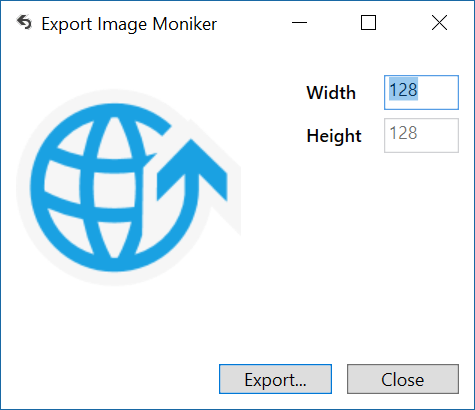
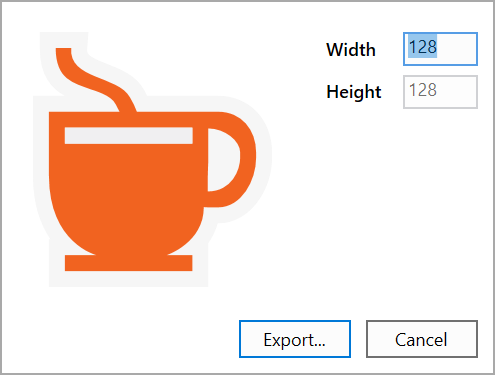
Fixed themeing in export dialog

diff --git a/src/ToolWindows/ExportMonikerWindow.xaml b/src/ToolWindows/ExportMonikerWindow.xaml
@@ -4,10 +4,30 @@
              xmlns:mc="http://schemas.openxmlformats.org/markup-compatibility/2006" 
              xmlns:d="http://schemas.microsoft.com/expression/blend/2008" 
              xmlns:local="clr-namespace:KnownMonikersExplorer.ToolWindows"
+             xmlns:imaging="clr-namespace:Microsoft.VisualStudio.Imaging;assembly=Microsoft.VisualStudio.Imaging"
+             xmlns:theming="clr-namespace:Microsoft.VisualStudio.PlatformUI;assembly=Microsoft.VisualStudio.Imaging"
+             xmlns:platformUI="clr-namespace:Microsoft.VisualStudio.PlatformUI;assembly=Microsoft.VisualStudio.Shell.15.0"
+             xmlns:util="clr-namespace:Microsoft.VisualStudio.PlatformUI;assembly=Microsoft.VisualStudio.Utilities"
+             xmlns:catalog="clr-namespace:Microsoft.VisualStudio.Imaging;assembly=Microsoft.VisualStudio.ImageCatalog"
              mc:Ignorable="d" 
              d:DesignHeight="450" d:DesignWidth="800"
-             Title="Export Image Moniker" Height="280" Width="330" WindowStartupLocation="CenterOwner" ShowInTaskbar="False">
-    <Grid Margin="10">
+             Background="{DynamicResource {x:Static platformUI:EnvironmentColors.BrandedUIBackgroundBrushKey}}"
+             Title="Export Image Moniker" Height="250" Width="330" WindowStartupLocation="CenterOwner" ShowInTaskbar="False" UseLayoutRounding="True" WindowStyle="None" ResizeMode="NoResize" BorderBrush="DarkGray" BorderThickness="1">
+    <Window.Resources>
+        <util:BrushToColorConverter x:Key="BrushToColorConverter"/>
+        <Style TargetType="{x:Type Button}">
+            <Setter Property="Background" Value="{DynamicResource {x:Static platformUI:EnvironmentColors.ComboBoxFocusedBackgroundBrushKey}}"/>
+            <Setter Property="Foreground" Value="{DynamicResource {x:Static platformUI:EnvironmentColors.BrandedUITitleBrushKey}}"/>
+            <Style.Triggers>
+                <Trigger Property="IsMouseOver" Value="True">
+                    <Setter Property="Foreground" Value="Black"/>
+                    <Setter Property="BorderBrush" Value="{DynamicResource {x:Static platformUI:EnvironmentColors.ComboBoxFocusedBorderBrushKey}}"/>
+                </Trigger>
+            </Style.Triggers>
+        </Style>
+    </Window.Resources>
+    <Grid Margin="10" 
+          theming:ImageThemingUtilities.ImageBackgroundColor="{Binding Background, RelativeSource={RelativeSource Self}, Converter={StaticResource BrushToColorConverter}}">
         <Grid.RowDefinitions>
             <RowDefinition Height="auto" />
             <RowDefinition />
@@ -18,7 +38,7 @@
             <ColumnDefinition Width="auto" />
         </Grid.ColumnDefinitions>
 
-        <Image x:Name="imgMoniker" Grid.Row="1" Grid.Column="0" Margin="0 10 0 0" VerticalAlignment="Top" HorizontalAlignment="Left" Width="150" Height="150" Stretch="None" />
+        <imaging:CrispImage x:Name="imgMoniker" Grid.Row="1" Grid.Column="0" Margin="0 10 0 0" VerticalAlignment="Top" HorizontalAlignment="Left" Width="170" Height="170" Moniker="{x:Static catalog:KnownMonikers.MoveUp}" />
 
         <Grid Grid.Row="1" Grid.Column="1" HorizontalAlignment="Right">
             <Grid.RowDefinitions>
@@ -29,11 +49,17 @@
                 <ColumnDefinition />
                 <ColumnDefinition Width="auto" />
             </Grid.ColumnDefinitions>
-            <TextBlock x:Name="textBlock" Grid.Row="0" Grid.Column="0" HorizontalAlignment="Left" FontWeight="SemiBold" Margin="0,13,15,10" Text="Width" VerticalAlignment="Top"/>
-            <TextBox x:Name="txtSize" Grid.Row="0" Grid.Column="1" HorizontalAlignment="Right" Height="23" Margin="0 10 0 0" Text="128" VerticalAlignment="Top" Width="50"/>
+            <TextBlock x:Name="textBlock" Grid.Row="0" Grid.Column="0" HorizontalAlignment="Left" FontWeight="SemiBold" Margin="0,13,15,10" Text="Width" VerticalAlignment="Top" 
+                       Foreground="{DynamicResource {x:Static platformUI:EnvironmentColors.BrandedUITitleBrushKey}}"/>
+            <TextBox x:Name="txtSize" Grid.Row="0" Grid.Column="1" HorizontalAlignment="Right" Height="23" Margin="0 10 0 0" Text="128" VerticalAlignment="Top" Width="50"
+                     Background="{DynamicResource {x:Static platformUI:EnvironmentColors.ComboBoxFocusedBackgroundBrushKey}}"
+                     Foreground="{DynamicResource {x:Static platformUI:EnvironmentColors.BrandedUITitleBrushKey}}"/>
 
-            <TextBlock Grid.Row="1" Grid.Column="0" HorizontalAlignment="Left" FontWeight="SemiBold" Margin="0,3,15,10" Text="Height" VerticalAlignment="Top"/>
-            <TextBox Grid.Row="1" Grid.Column="1" HorizontalAlignment="Right" Height="23" Text="{Binding ElementName=txtSize, Path=Text}" VerticalAlignment="Top" Width="50" IsEnabled="False"/>
+            <TextBlock Grid.Row="1" Grid.Column="0" HorizontalAlignment="Left" FontWeight="SemiBold" Margin="0,3,15,10" Text="Height" VerticalAlignment="Top" 
+                       Foreground="{DynamicResource {x:Static platformUI:EnvironmentColors.BrandedUITitleBrushKey}}"/>
+            <TextBox Grid.Row="1" Grid.Column="1" HorizontalAlignment="Right" Height="23" Text="{Binding ElementName=txtSize, Path=Text}" VerticalAlignment="Top" Width="50" IsEnabled="False"
+                     Background="{DynamicResource {x:Static platformUI:EnvironmentColors.ComboBoxFocusedBackgroundBrushKey}}"
+                     Foreground="{DynamicResource {x:Static platformUI:EnvironmentColors.BrandedUITitleBrushKey}}"/>
         </Grid>
 
         <Grid Grid.Row="2" Grid.ColumnSpan="2" HorizontalAlignment="Right" Margin="0 10 0 0">
@@ -44,8 +70,9 @@
                 <ColumnDefinition Width="auto" />
             </Grid.ColumnDefinitions>
 
-            <Button x:Name="btnOk" Grid.Column="1" Content="Export..." IsDefault="true" Margin="0,0,10,0" HorizontalAlignment="Right" Width="75" Click="BtnOk_Click" ToolTip="Exports the currently selected Image Moniker"/>
-            <Button x:Name="btnCancel" Grid.Column="3" Content="Close" IsCancel="True" HorizontalAlignment="Right" VerticalAlignment="Bottom" Width="75"/>
+            <Button x:Name="btnOk" Grid.Column="1" Content="Export..." IsDefault="true" Margin="0,0,10,0" HorizontalAlignment="Right" Width="75" Height="25" Click="BtnOk_Click" />
+            <Button x:Name="btnCancel" Grid.Column="3" Content="Cancel" IsCancel="True" HorizontalAlignment="Right" VerticalAlignment="Bottom" Width="75" Height="25" />
+            
         </Grid>
     </Grid>
 </Window>

diff --git a/src/ToolWindows/ExportMonikerWindow.xaml.cs b/src/ToolWindows/ExportMonikerWindow.xaml.cs
@@ -29,7 +29,7 @@ namespace KnownMonikersExplorer.ToolWindows
         private void OnLoaded(object sender, RoutedEventArgs e)
         {
             Icon = GetImage(KnownMonikers.Export, 16);
-            imgMoniker.Source = GetImage(_model.Moniker, 150);
+            imgMoniker.Moniker = _model.Moniker;
 
             txtSize.Focus();
             txtSize.SelectAll();
